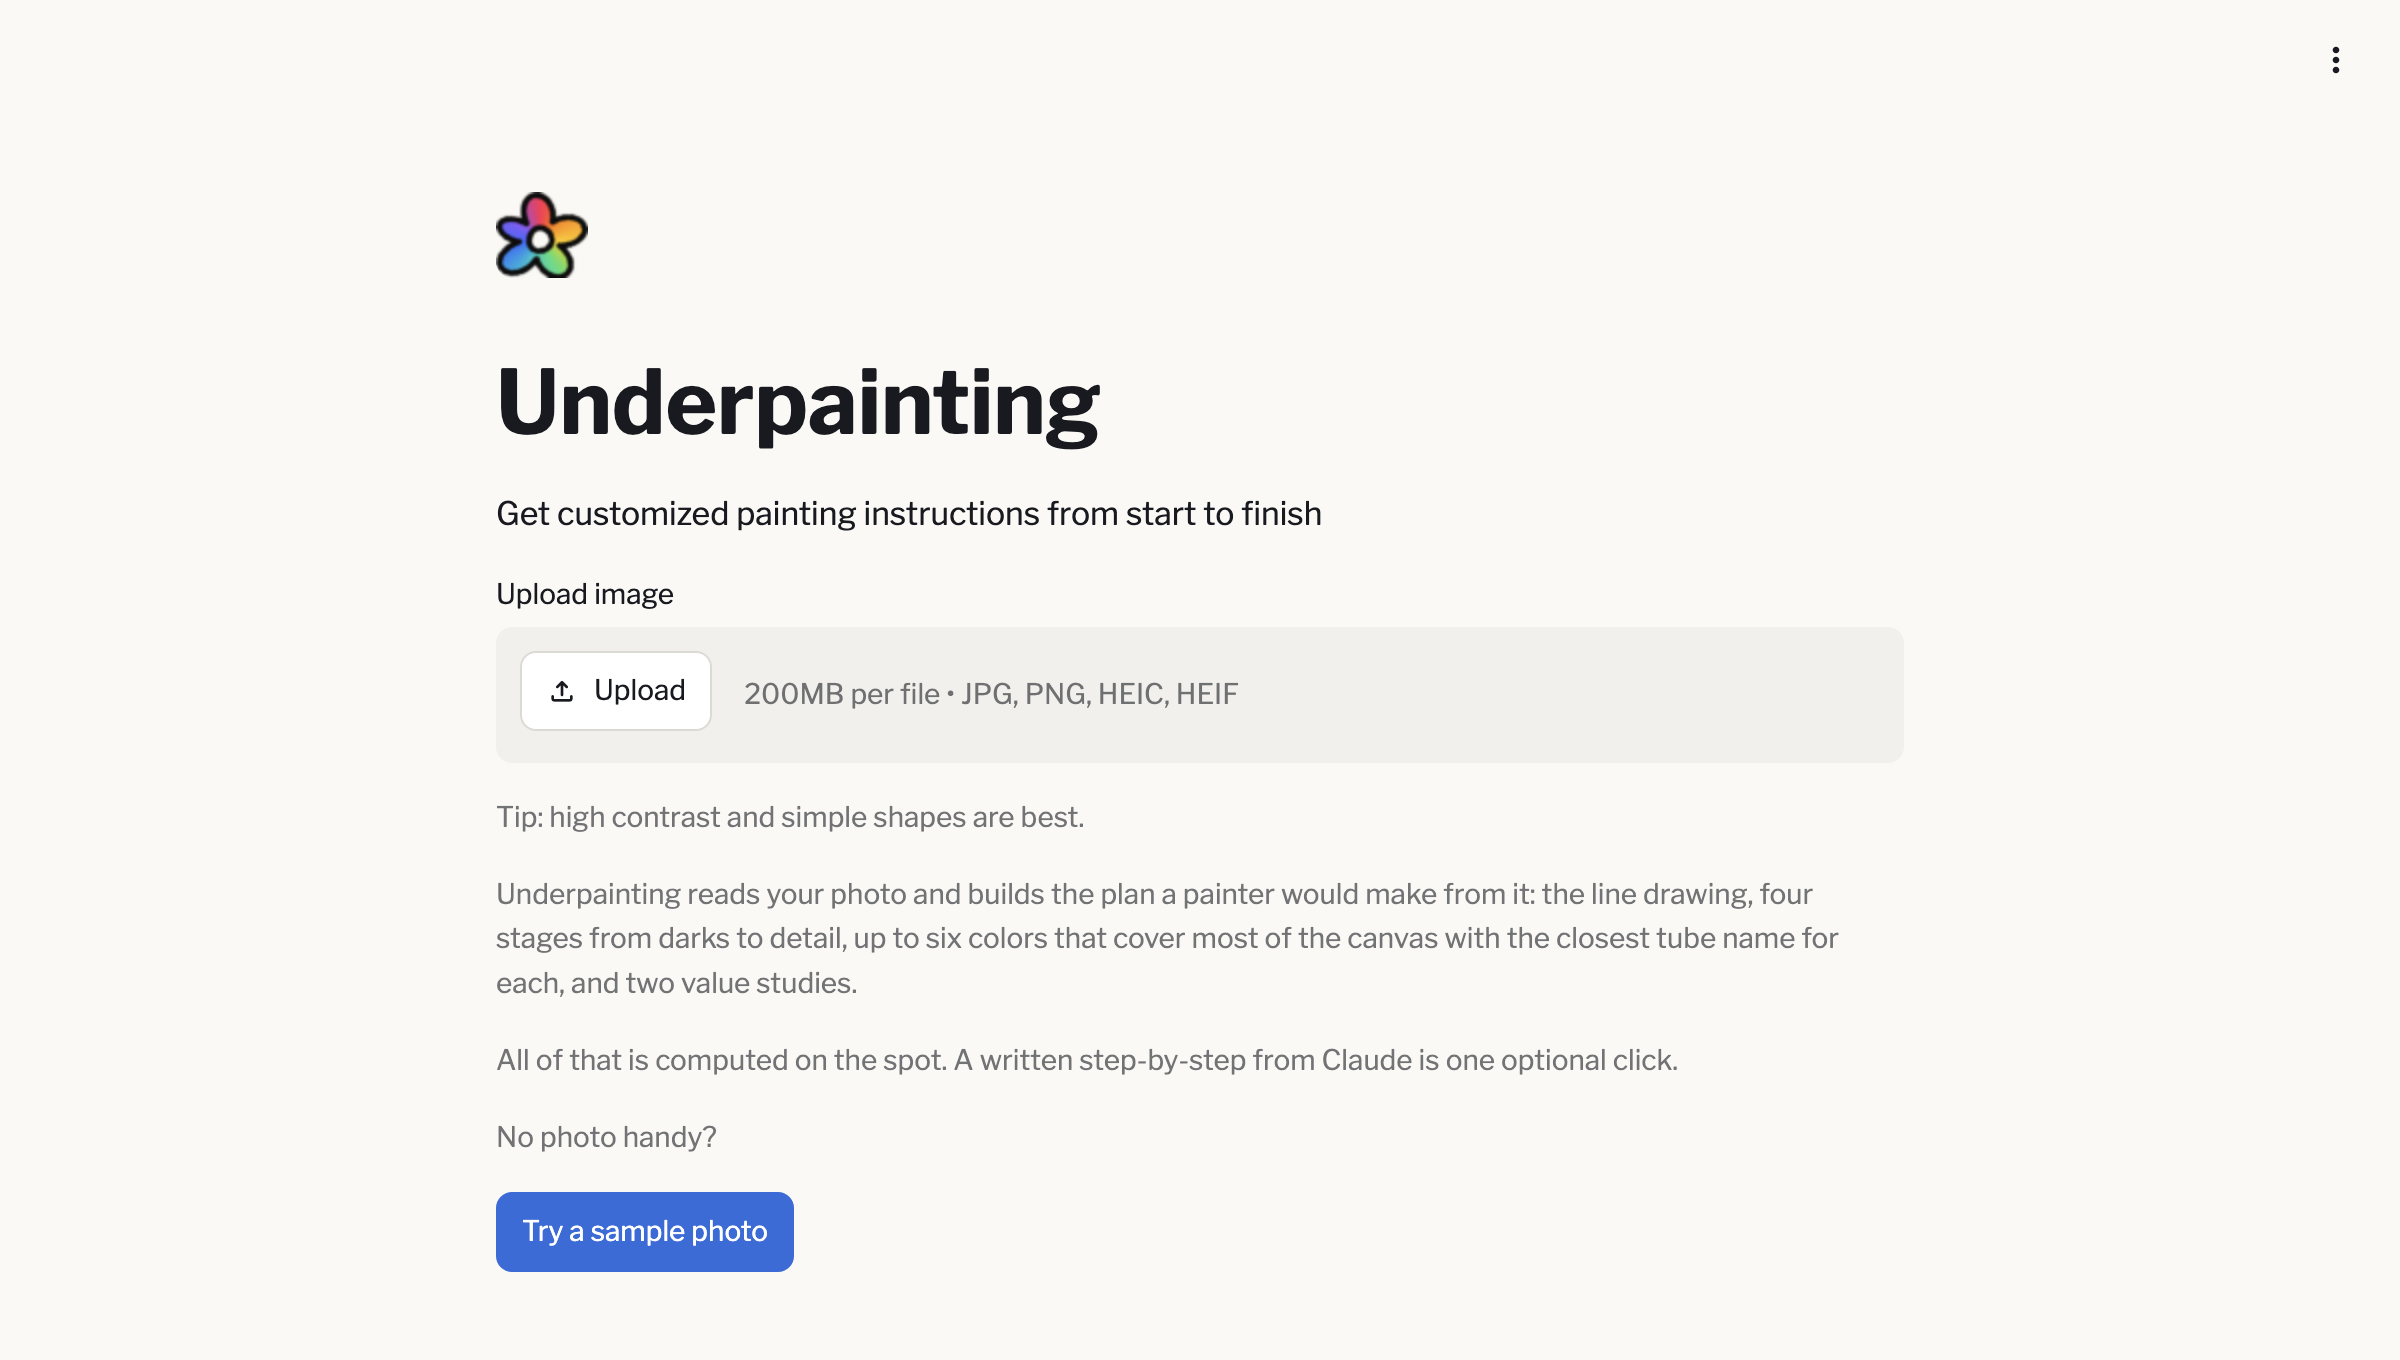
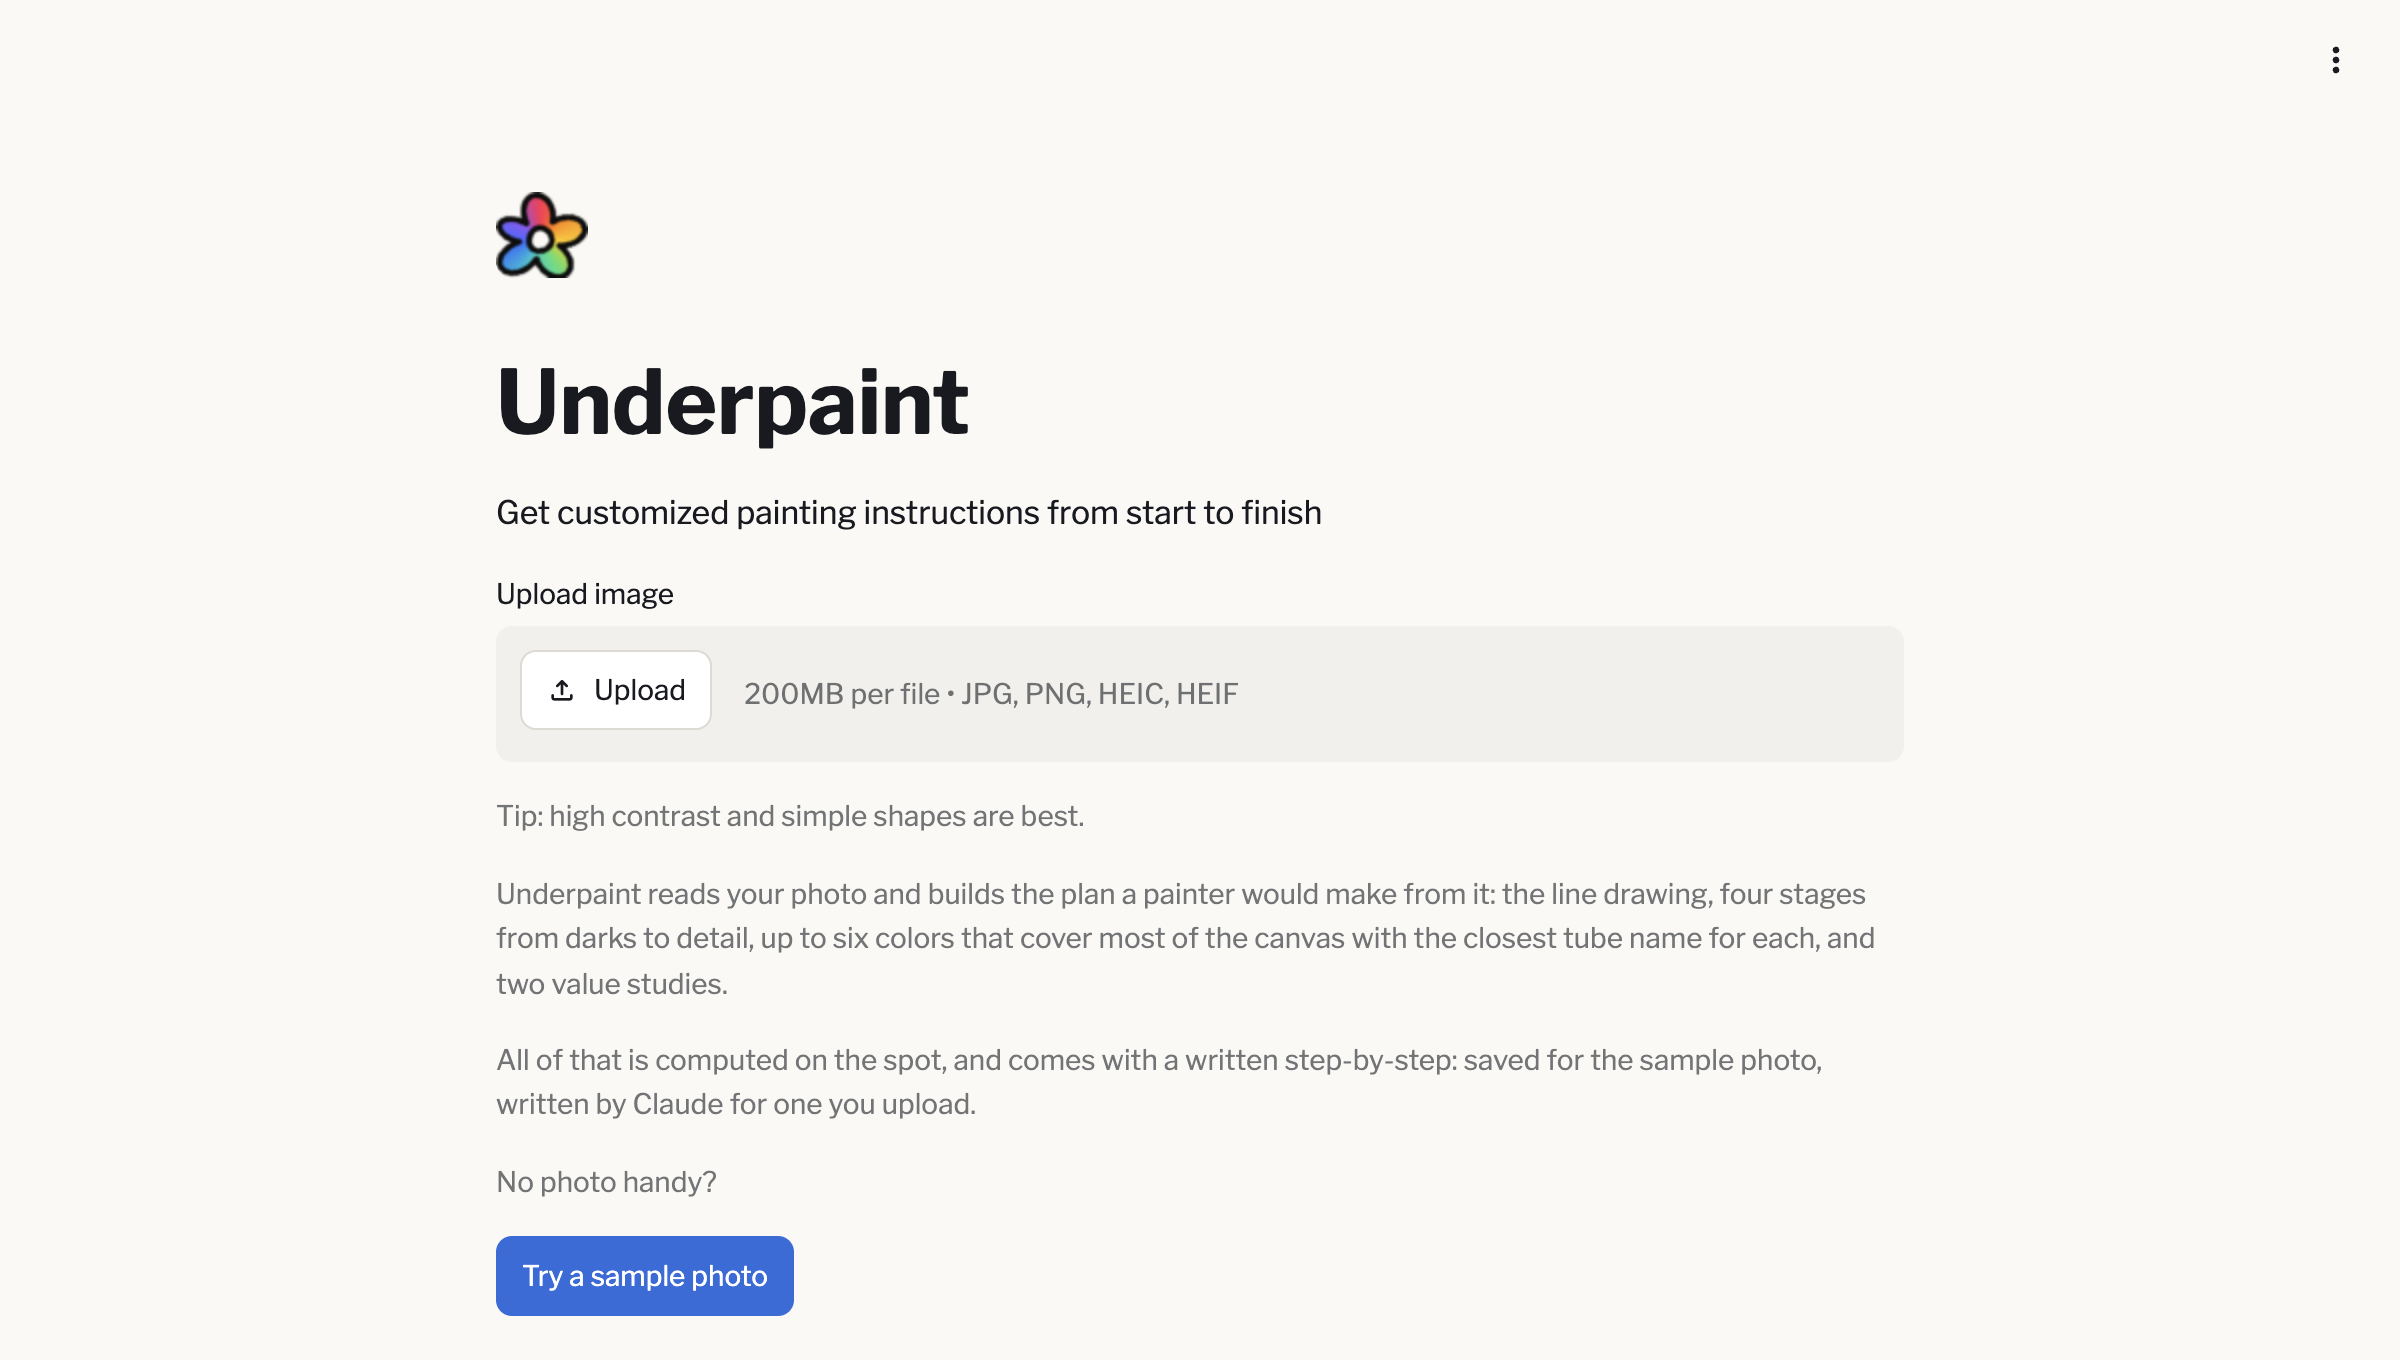
Rename the app from Underpainting to Underpaint (#35)
Page title, heading, front-page copy, disclaimers, module docstrings, and
README all say Underpaint now. The README's badge and clone commands point
at Charlotte-Wagner/Underpaint, which is correct once the GitHub repo
itself is renamed to match.

Left alone on purpose: docs/ARCHITECTURE.md's "what an underpainting
actually is", which means the painting technique, not the app.

Front-page screenshot re-shot, since it showed the old title. It was also
one PR stale: #33 changed the step-by-step line and the picture still
showed the "one optional click" wording.

diff --git a/app.py b/app.py
@@ -39,7 +39,7 @@ BRAND_MARK_PATH = Path(__file__).parent / "assets" / "brand" / "flower-logo-web.
 # Has to run before any other st.* call; that is a Streamlit rule, not a preference.
 # The mark is the page icon because the browser tab is the one piece of the app a
 # visitor sees before anything has loaded.
-st.set_page_config(page_title="Underpainting", page_icon=str(BRAND_MARK_PATH))
+st.set_page_config(page_title="Underpaint", page_icon=str(BRAND_MARK_PATH))
 
 # On every screen, not just the front page. It is the only thing that says where
 # you are once the upload control is behind you, and there is no browser URL doing
@@ -48,7 +48,7 @@ st.set_page_config(page_title="Underpainting", page_icon=str(BRAND_MARK_PATH))
 # Mark above wordmark rather than beside it, because st.title's own line height
 # leaves no room to sit a 46px image next to it without fighting the baseline.
 st.image(str(BRAND_MARK_PATH), width=46)
-st.title("Underpainting")
+st.title("Underpaint")
 
 MAX_DIMENSION = 1200
 
@@ -142,7 +142,7 @@ API_MAX_TOKENS = 1500
 # call is optional and never automatic, which is the decision this codebase is most
 # careful about and is otherwise invisible from the outside.
 FRONT_PAGE_BLURB = (
-    "Underpainting reads your photo and builds the plan a painter would make from "
+    "Underpaint reads your photo and builds the plan a painter would make from "
     "it: the line drawing, four stages from darks to detail, up to six colors that "
     "cover most of the canvas with the closest tube name for each, and two value "
     "studies.",
@@ -563,7 +563,7 @@ def show_palette_reference(palette):
             "as one, ordered by how much of the canvas each covers. Each swatch "
             "shows the photo's own color, with the tube you would reach for to "
             "mix it.\n\n"
-            "Tube suggestions are approximate. Underpainting compares dominant "
+            "Tube suggestions are approximate. Underpaint compares dominant "
             "sRGB photo colors with measured wet-paint masstones from a limited "
             "reference palette. Camera processing, lighting, transparency, ground "
             "color, mixtures, and drying shifts are not modeled. Use these names "
@@ -578,7 +578,7 @@ def show_palette_reference(palette):
             "Munsell-and-CIELAB-Data-for-Williamsburg-Oils_munsell_ordering.pdf), "
             "measured from 6-mil wet drawdowns with a non-contact "
             "spectrophotometer. The published table does not specify its "
-            "illuminant/observer setting. Underpainting is independent and is not "
+            "illuminant/observer setting. Underpaint is independent and is not "
             "affiliated with or endorsed by Golden Artist Colors or Williamsburg."
         )
 

diff --git a/rubric.py b/rubric.py
@@ -1,4 +1,4 @@
-"""Teaching rubric for Underpainting's step-by-step writeup, and prompt assembly.
+"""Teaching rubric for Underpaint's step-by-step writeup, and prompt assembly.
 
 WHERE THIS CAME FROM
 ---------------------
@@ -28,7 +28,7 @@ Three changes are worth flagging here because they alter the method rather than 
     a default to test.
 
 Added because a beginner needs them and would not know to ask: toning the ground (the app is
-called Underpainting and v1 never mentioned it), hard versus soft edges, what squinting
+called Underpaint and v1 never mentioned it), hard versus soft edges, what squinting
 actually does, how the suggested tubes connect to the stages, and a stopping criterion.
 
 Structured in build order on purpose: the drawing, then darks and lights, then midtones, then

diff --git a/imaging.py b/imaging.py
@@ -1,4 +1,4 @@
-"""Image math for Underpainting.
+"""Image math for Underpaint.
 
 Kept out of app.py on purpose: app.py runs Streamlit calls at import time, so
 importing it from a plain terminal script is awkward. Everything here is pure
@@ -370,7 +370,7 @@ def dominant_temperature(palette):
 STAGE_VALUE_LEVELS = 3
 
 # The toned canvas the first three stages sit on: a mid-value neutral, which
-# is the rubric's own first instruction, and the app is called Underpainting.
+# is the rubric's own first instruction, and the app is called Underpaint.
 # Not white, and this was measured rather than assumed. With white standing
 # for uncovered canvas, stage 2 of the sample photo came out 81% blank,
 # because the sky and the dune both land in the middle value band, and the

diff --git a/paints.py b/paints.py
@@ -51,7 +51,7 @@ Measured on a real photo, matches ran dE 11.5 to 31.1. A per-item "approximate"
 flag at dE 12 would fire on nearly everything and therefore mean nothing, so
 there is no per-item threshold. The panel is framed once, as closest tube.
 
-Underpainting is independent and is not affiliated with or endorsed by Golden
+Underpaint is independent and is not affiliated with or endorsed by Golden
 Artist Colors or Williamsburg.
 """
 

diff --git a/gif.py b/gif.py
@@ -1,4 +1,4 @@
-"""GIF encoding for Underpainting's cross-fade build-order animation.
+"""GIF encoding for Underpaint's cross-fade build-order animation.
 
 Kept out of imaging.py because the output here is GIF bytes through Pillow,
 not a numpy array back out. Same standard as imaging.py otherwise: zero

diff --git a/README.md b/README.md
@@ -1,8 +1,8 @@
-# Underpainting
+# Underpaint
 
-[![checks](https://github.com/Charlotte-Wagner/Underpainting/actions/workflows/checks.yml/badge.svg)](https://github.com/Charlotte-Wagner/Underpainting/actions/workflows/checks.yml)
+[![checks](https://github.com/Charlotte-Wagner/Underpaint/actions/workflows/checks.yml/badge.svg)](https://github.com/Charlotte-Wagner/Underpaint/actions/workflows/checks.yml)
 
-Underpainting turns a reference photo into a set of study aids for representational
+Underpaint turns a reference photo into a set of study aids for representational
 painting: a simplified value study, a limited paint palette with real tube names, a
 staged build-order preview, and a written step-by-step. It's for painting students
 staring at a photo who don't know what order to build it in.
@@ -13,7 +13,7 @@ Free-tier apps sleep after a period of inactivity, so a cold visit may show a wa
 screen for the first 30 seconds or so. Here's the app itself, and the build-order output
 on its own sample photo, so the repo tells the story even while it's waking up:
 
-![The Underpainting front page: the flower logo above the wordmark on a warm off-white ground, a one-line description, a file uploader with a tip about high contrast and simple shapes, a short paragraph explaining what the app produces, and a blue "Try a sample photo" button.](assets/screenshot-front-page.png)
+![The Underpaint front page: the flower logo above the wordmark on a warm off-white ground, a one-line description, a file uploader with a tip about high contrast and simple shapes, a short paragraph explaining what the app produces, and a blue "Try a sample photo" button.](assets/screenshot-front-page.png)
 
 ![The four build stages of a desert photo cross-fading into each other on a toned gray ground: a line drawing of the tree and the dune ridge, then the darkest and lightest bands filled in with a 6-swatch palette, then the midtones added, then the full photo.](assets/sample-output.gif)
 
@@ -42,8 +42,8 @@ Starting from a fresh clone, on macOS/Linux (Windows notes inline):
 
 ```bash
 # 1. Clone and enter the project
-git clone https://github.com/Charlotte-Wagner/Underpainting.git
-cd Underpainting
+git clone https://github.com/Charlotte-Wagner/Underpaint.git
+cd Underpaint
 
 # 2. Create and activate a virtual environment
 #    (Python 3.12 recommended, matching the deployed environment; 3.10+ works)
@@ -197,7 +197,7 @@ ShareAlike: the repository is an aggregation, and the code is not an adaptation 
 photograph. Only material actually derived from the photo carries the license forward.
 
 **The paint reference data.** CIE Lab values in `paints.py` come from Golden Artist
-Colors' published measurements for Williamsburg oils, cited in that file. Underpainting is
+Colors' published measurements for Williamsburg oils, cited in that file. Underpaint is
 independent and is not affiliated with or endorsed by Golden Artist Colors or Williamsburg.
 
 **Photos you upload** are decoded in memory to render the page, and are sent to the

diff --git a/CLAUDE.md b/CLAUDE.md
@@ -1,6 +1,6 @@
 # Conventions for this repo
 
-This file describes how Underpainting is built, for both future AI-assisted sessions and
+This file describes how Underpaint is built, for both future AI-assisted sessions and
 human reviewers. It records what's intentional so a reviewer can tell a deliberate choice
 from an oversight.
 

diff --git a/assets/brand/README.md b/assets/brand/README.md
@@ -1,6 +1,6 @@
 # Brand assets
 
-The flower mark is the primary logo for Underpainting. Everything here descends from
+The flower mark is the primary logo for Underpaint. Everything here descends from
 one Claude Design project:
 
 <https://claude.ai/design/p/579191b1-6c12-4a28-8800-d7d6e993d292>
